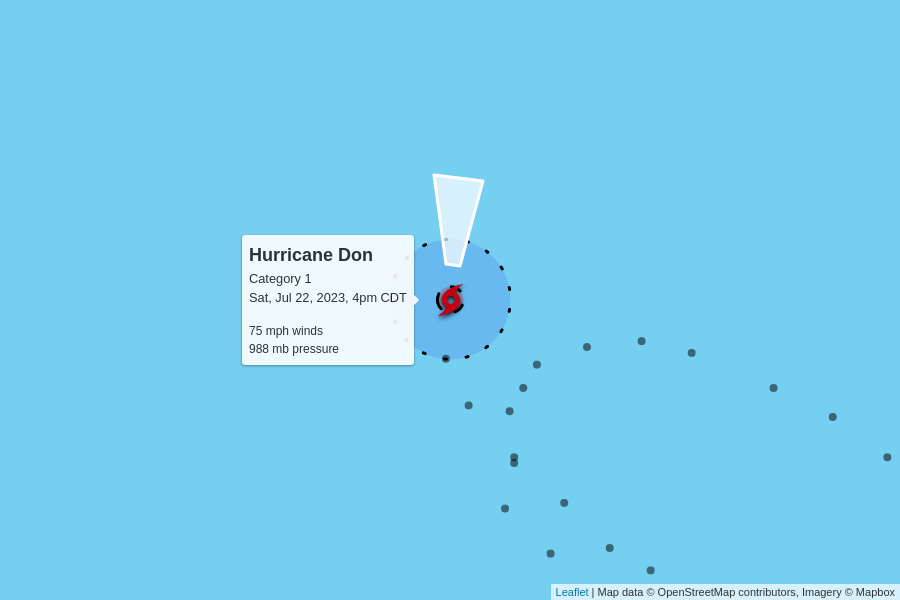
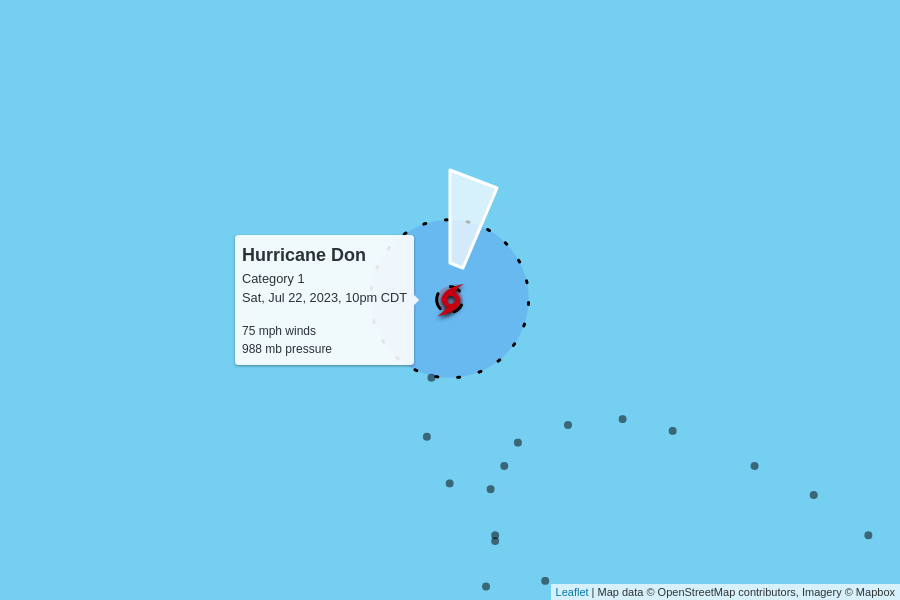
automatic update

diff --git a/docs/index.html b/docs/index.html
@@ -100,7 +100,7 @@
         <td colspan="6" class="storm category-1" >
           <h2>
             Hurricane Don - Category 1
-            <p class="updated">last updated <span data-time>2023-07-22T21:00:00.000Z</span></p>
+            <p class="updated">last updated <span data-time>2023-07-23T03:00:00.000Z</span></p>
           </h2>
         </td>
       </tr>
@@ -118,9 +118,9 @@
         <td>75 mph</td>
         <td>988 mb</td>
         <td>
-          12 mph to the north
+          14 mph to the north-northeast
           <br/>
-          <span style="display: inline-block; font-size: 1.5em; transform: rotate(5deg);">↑</span>
+          <span style="display: inline-block; font-size: 1.5em; transform: rotate(15deg);">↑</span>
         </td>
         <td><a href="https://raw.githubusercontent.com/mgwalker/atlantic-hurricanes/main/data/csv/AL052023.csv">AL052023.csv</a></td>
         <td><a href="https://www.nhc.noaa.gov/archive/2023/DON.shtml?">NHC advisories</a></td>
